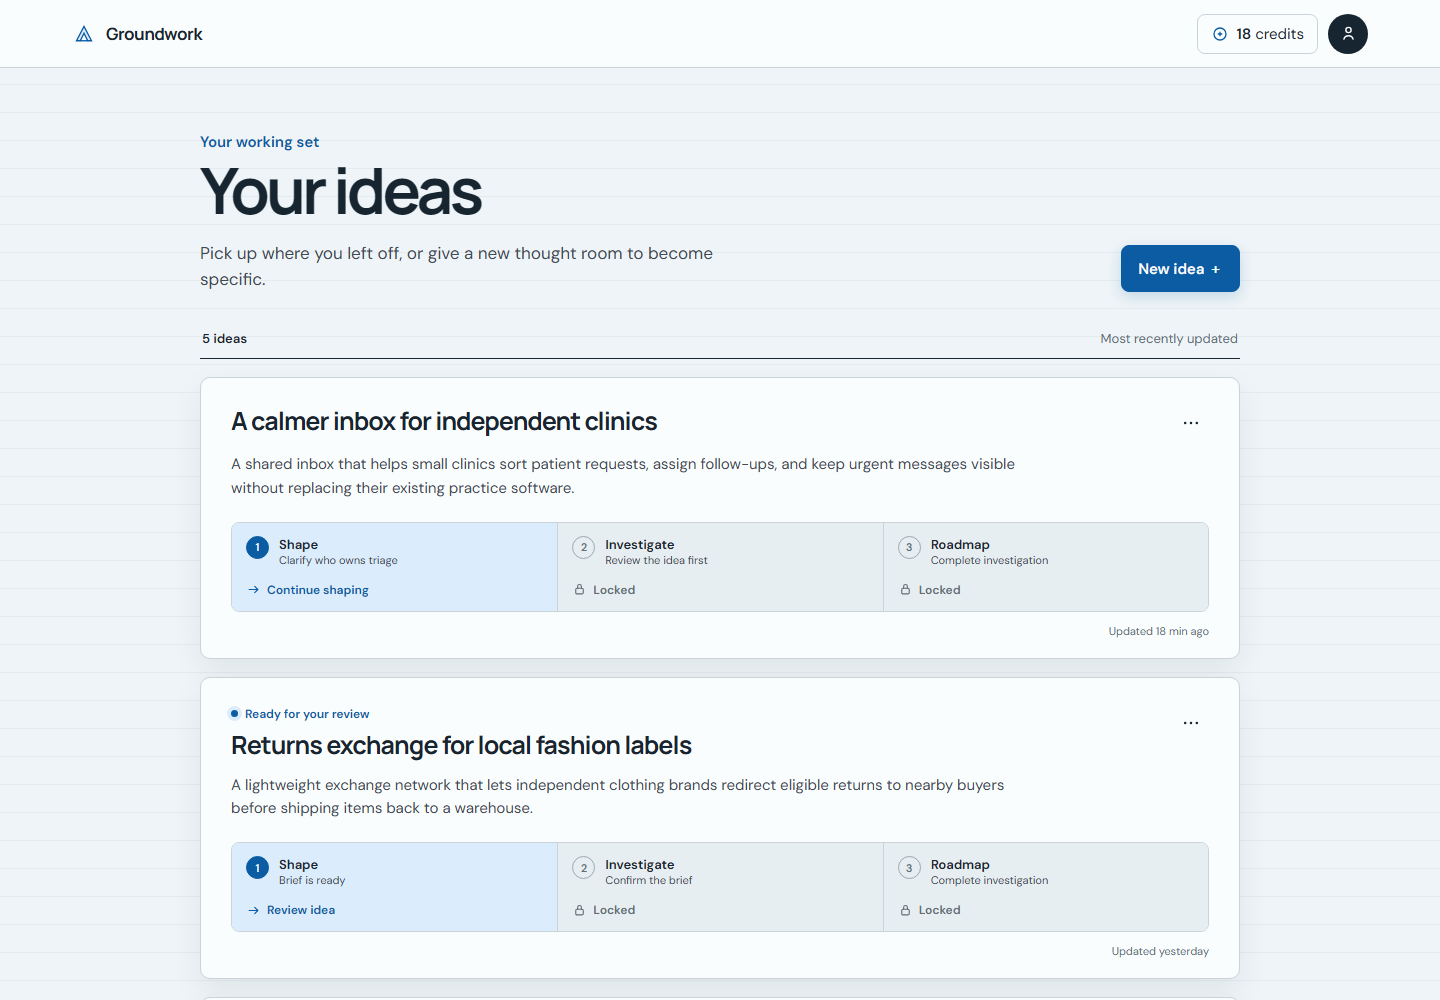
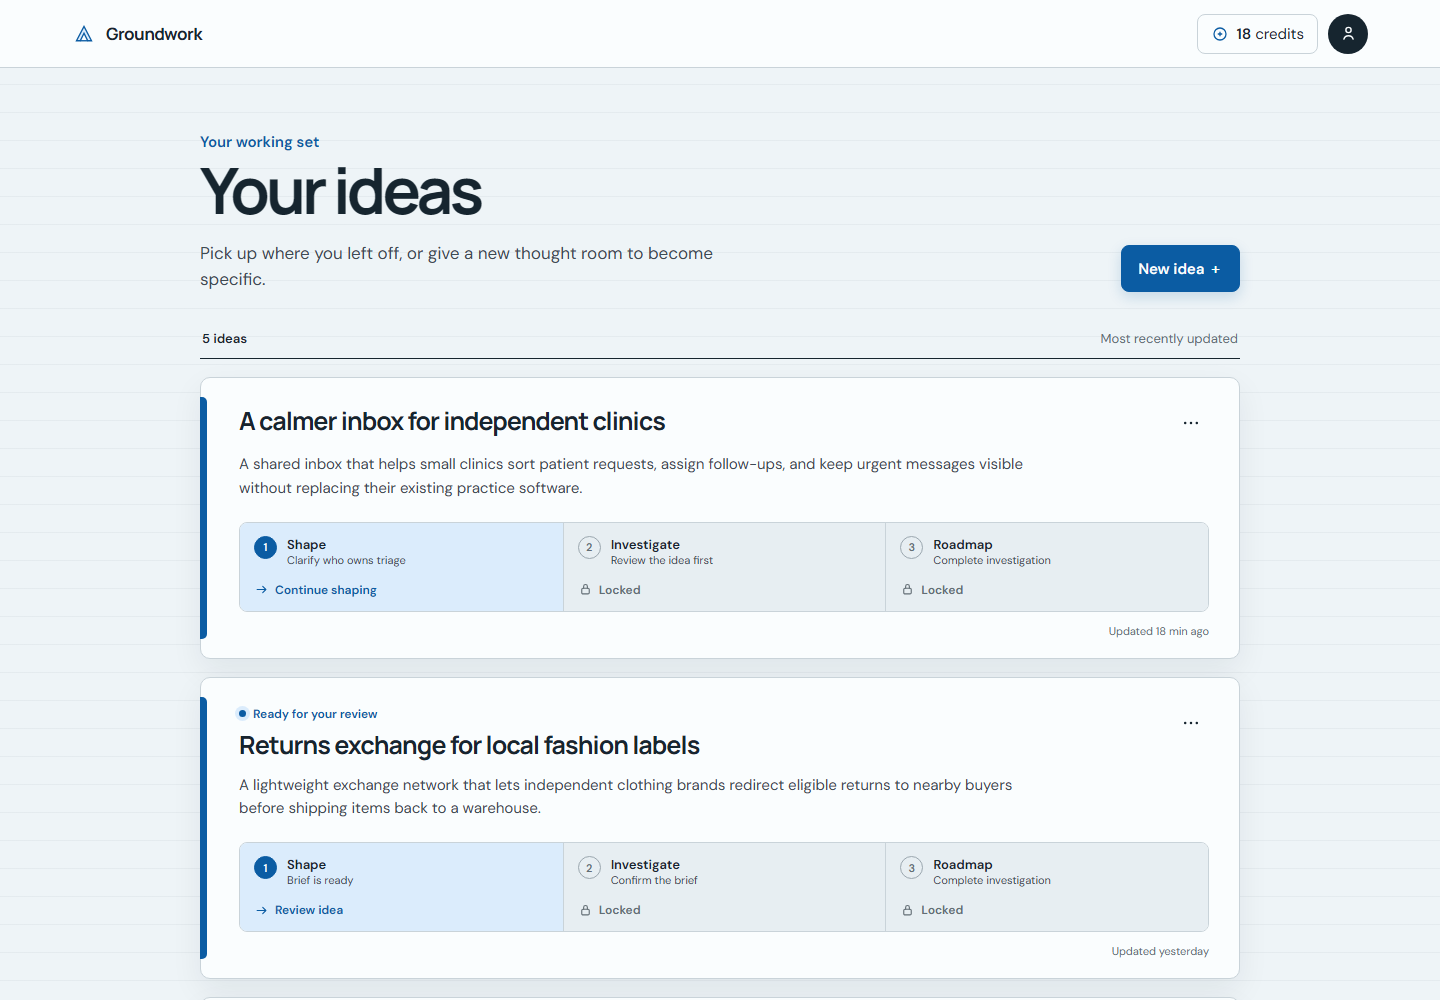
Restore idea card status edge

diff --git a/_experiments/idea-card-6/styles.css b/_experiments/idea-card-6/styles.css
@@ -85,7 +85,10 @@ h1 { margin: 0; font-size: clamp(42px, 6vw, 64px); line-height: .98; letter-spac
 .list-heading { display: flex; justify-content: space-between; padding: 0 2px 11px; border-bottom: 1px solid var(--ink); color: var(--muted-ink); font-size: 13px; }
 .list-heading p { margin: 0; color: var(--ink); font-weight: 600; }
 .idea-list { display: grid; gap: 18px; padding-top: 18px; }
-.idea-card { position: relative; overflow: visible; padding: 28px 30px 20px; background: var(--paper); border: 1px solid var(--rules); border-radius: var(--radius); box-shadow: var(--shadow); }
+.idea-card { position: relative; overflow: visible; padding: 28px 30px 20px 38px; background: var(--paper); border: 1px solid var(--rules); border-radius: var(--radius); box-shadow: var(--shadow); }
+.idea-card__signal { position: absolute; top: 19px; bottom: 19px; left: -1px; width: 7px; border-radius: 0 5px 5px 0; background: var(--cobalt); }
+.idea-card:has(.stage--running) .idea-card__signal { background: var(--amber); }
+.idea-card:has(.stage--failed) .idea-card__signal { background: var(--rust); }
 .idea-card__header { display: flex; align-items: flex-start; justify-content: space-between; gap: 20px; }
 .idea-card h2 { margin: 0; font-size: clamp(20px, 3vw, 25px); line-height: 1.23; letter-spacing: -.035em; }
 .brief { max-width: 790px; margin: 13px 0 22px; color: var(--secondary-ink); line-height: 1.55; display: -webkit-box; -webkit-line-clamp: 2; -webkit-box-orient: vertical; overflow: hidden; }
@@ -154,7 +157,8 @@ dialog p { color: var(--secondary-ink); line-height: 1.55; }
   .page-heading .primary { margin-top: 25px; padding: 11px 12px; }
   .page-heading .primary span { display: none; }
   .list-heading span { display: none; }
-  .idea-card { padding: 23px 18px 17px; }
+  .idea-card { padding: 23px 18px 17px 26px; }
+  .idea-card__signal { top: 15px; bottom: 15px; width: 6px; }
   .brief { margin-bottom: 18px; -webkit-line-clamp: 3; }
   .stages { grid-template-columns: 1fr; }
   .stage { min-height: 76px; grid-template-columns: 24px 1fr auto; grid-template-rows: auto; align-items: center; }

diff --git a/_experiments/idea-card-6/app.js b/_experiments/idea-card-6/app.js
@@ -41,6 +41,7 @@ function stageMarkup(stage) {
 function cardMarkup(idea) {
   return `
     <article class="idea-card" data-id="${idea.id}">
+      <div class="idea-card__signal" aria-hidden="true"></div>
       <header class="idea-card__header">
         <div>
           ${idea.notice ? `<p class="notice notice--${idea.stages.some(s => s.state === 'failed') ? 'failed' : 'default'}"><span></span>${idea.notice}</p>` : ''}
